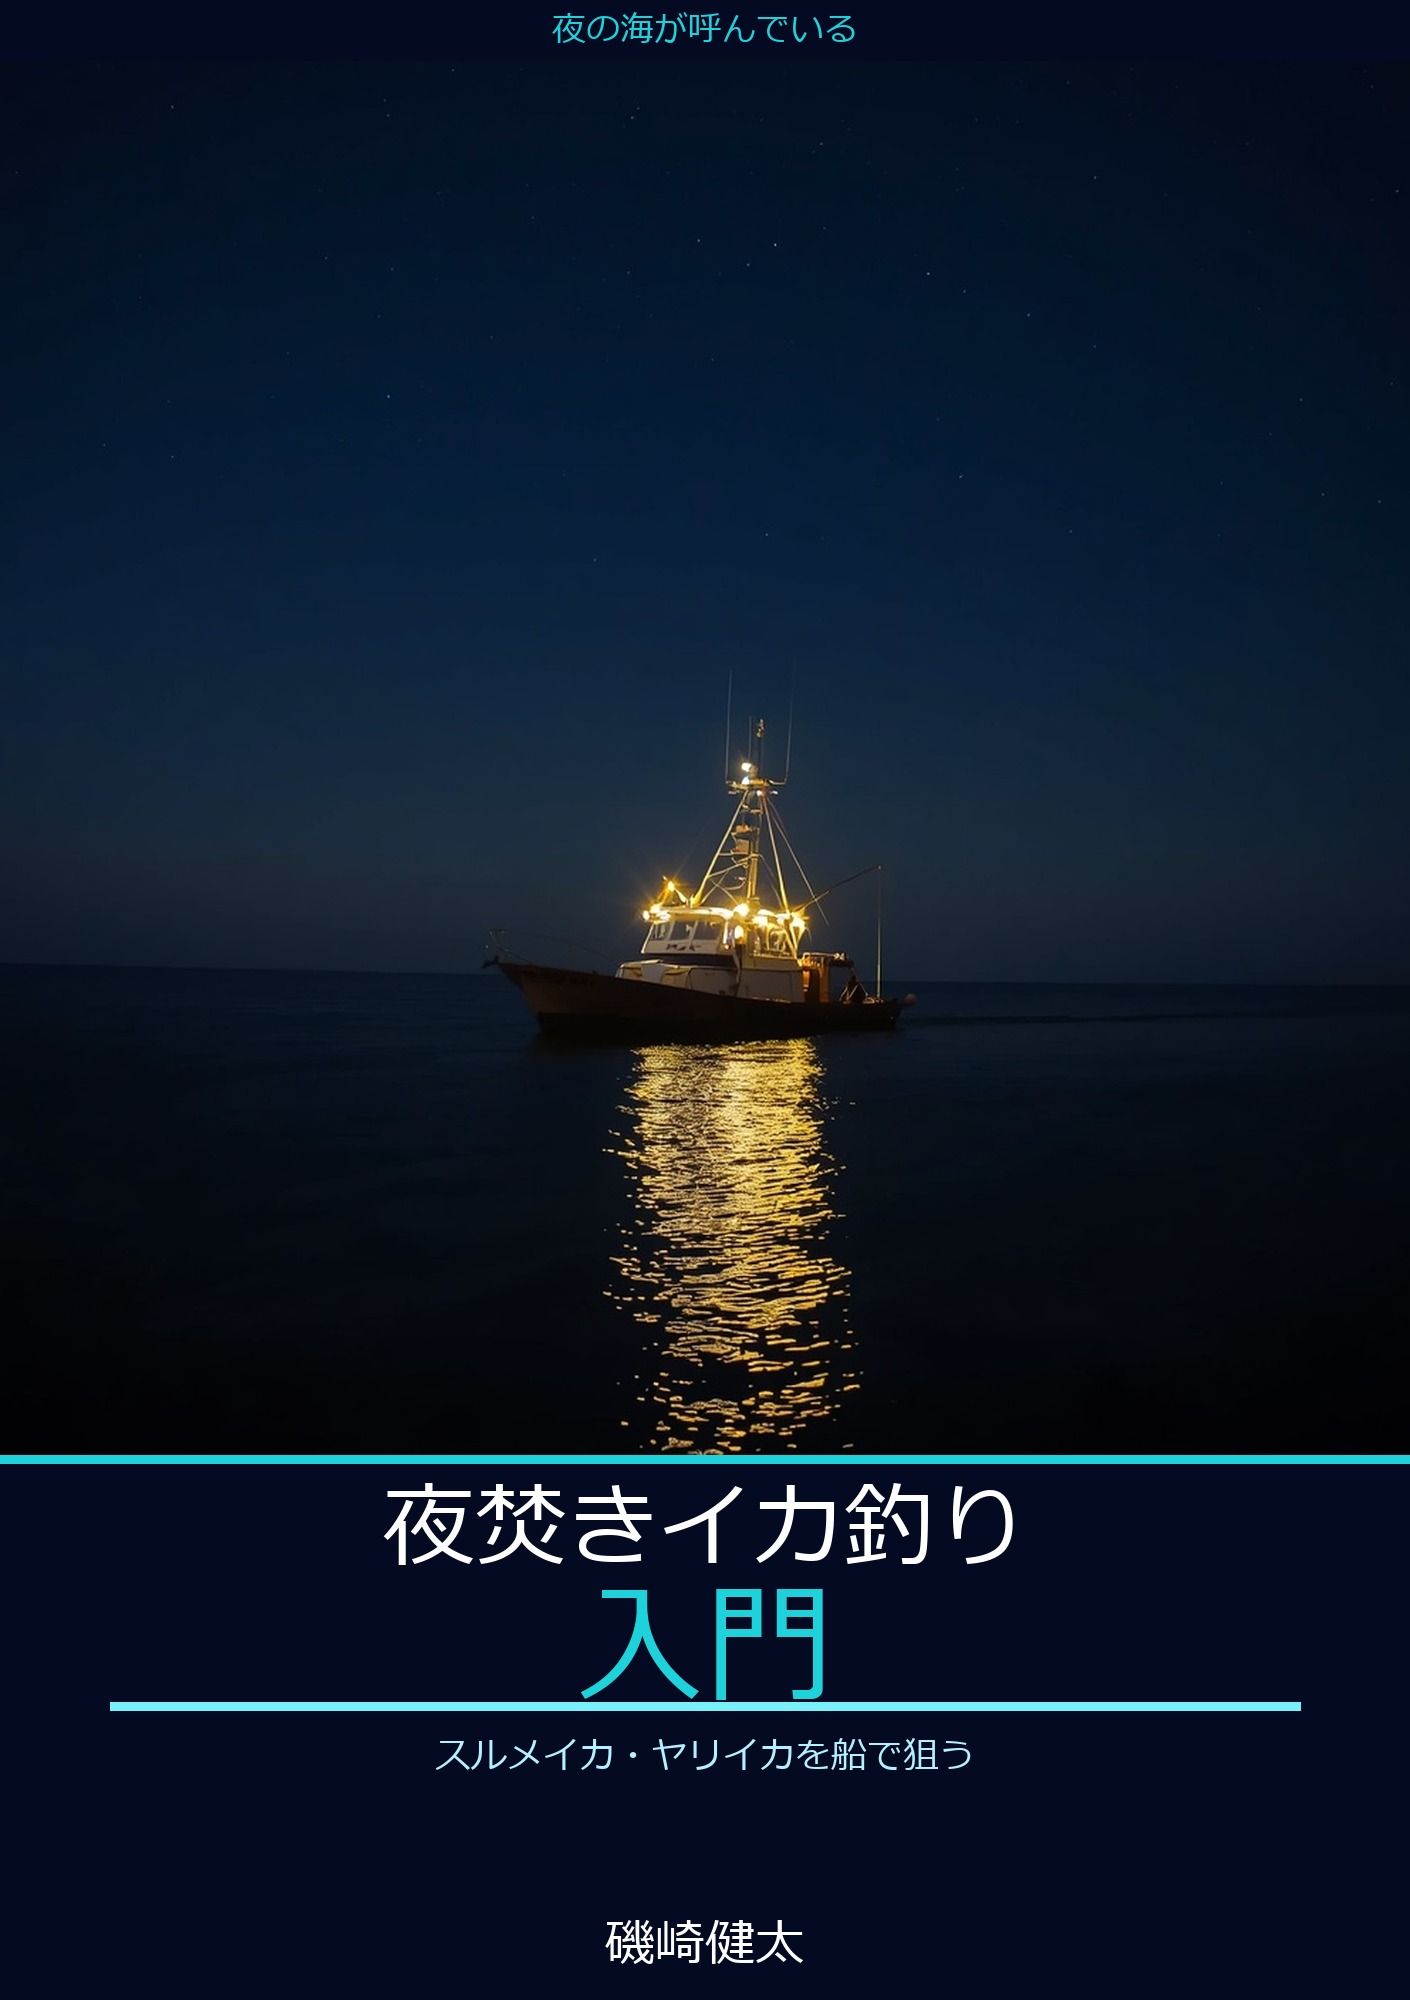
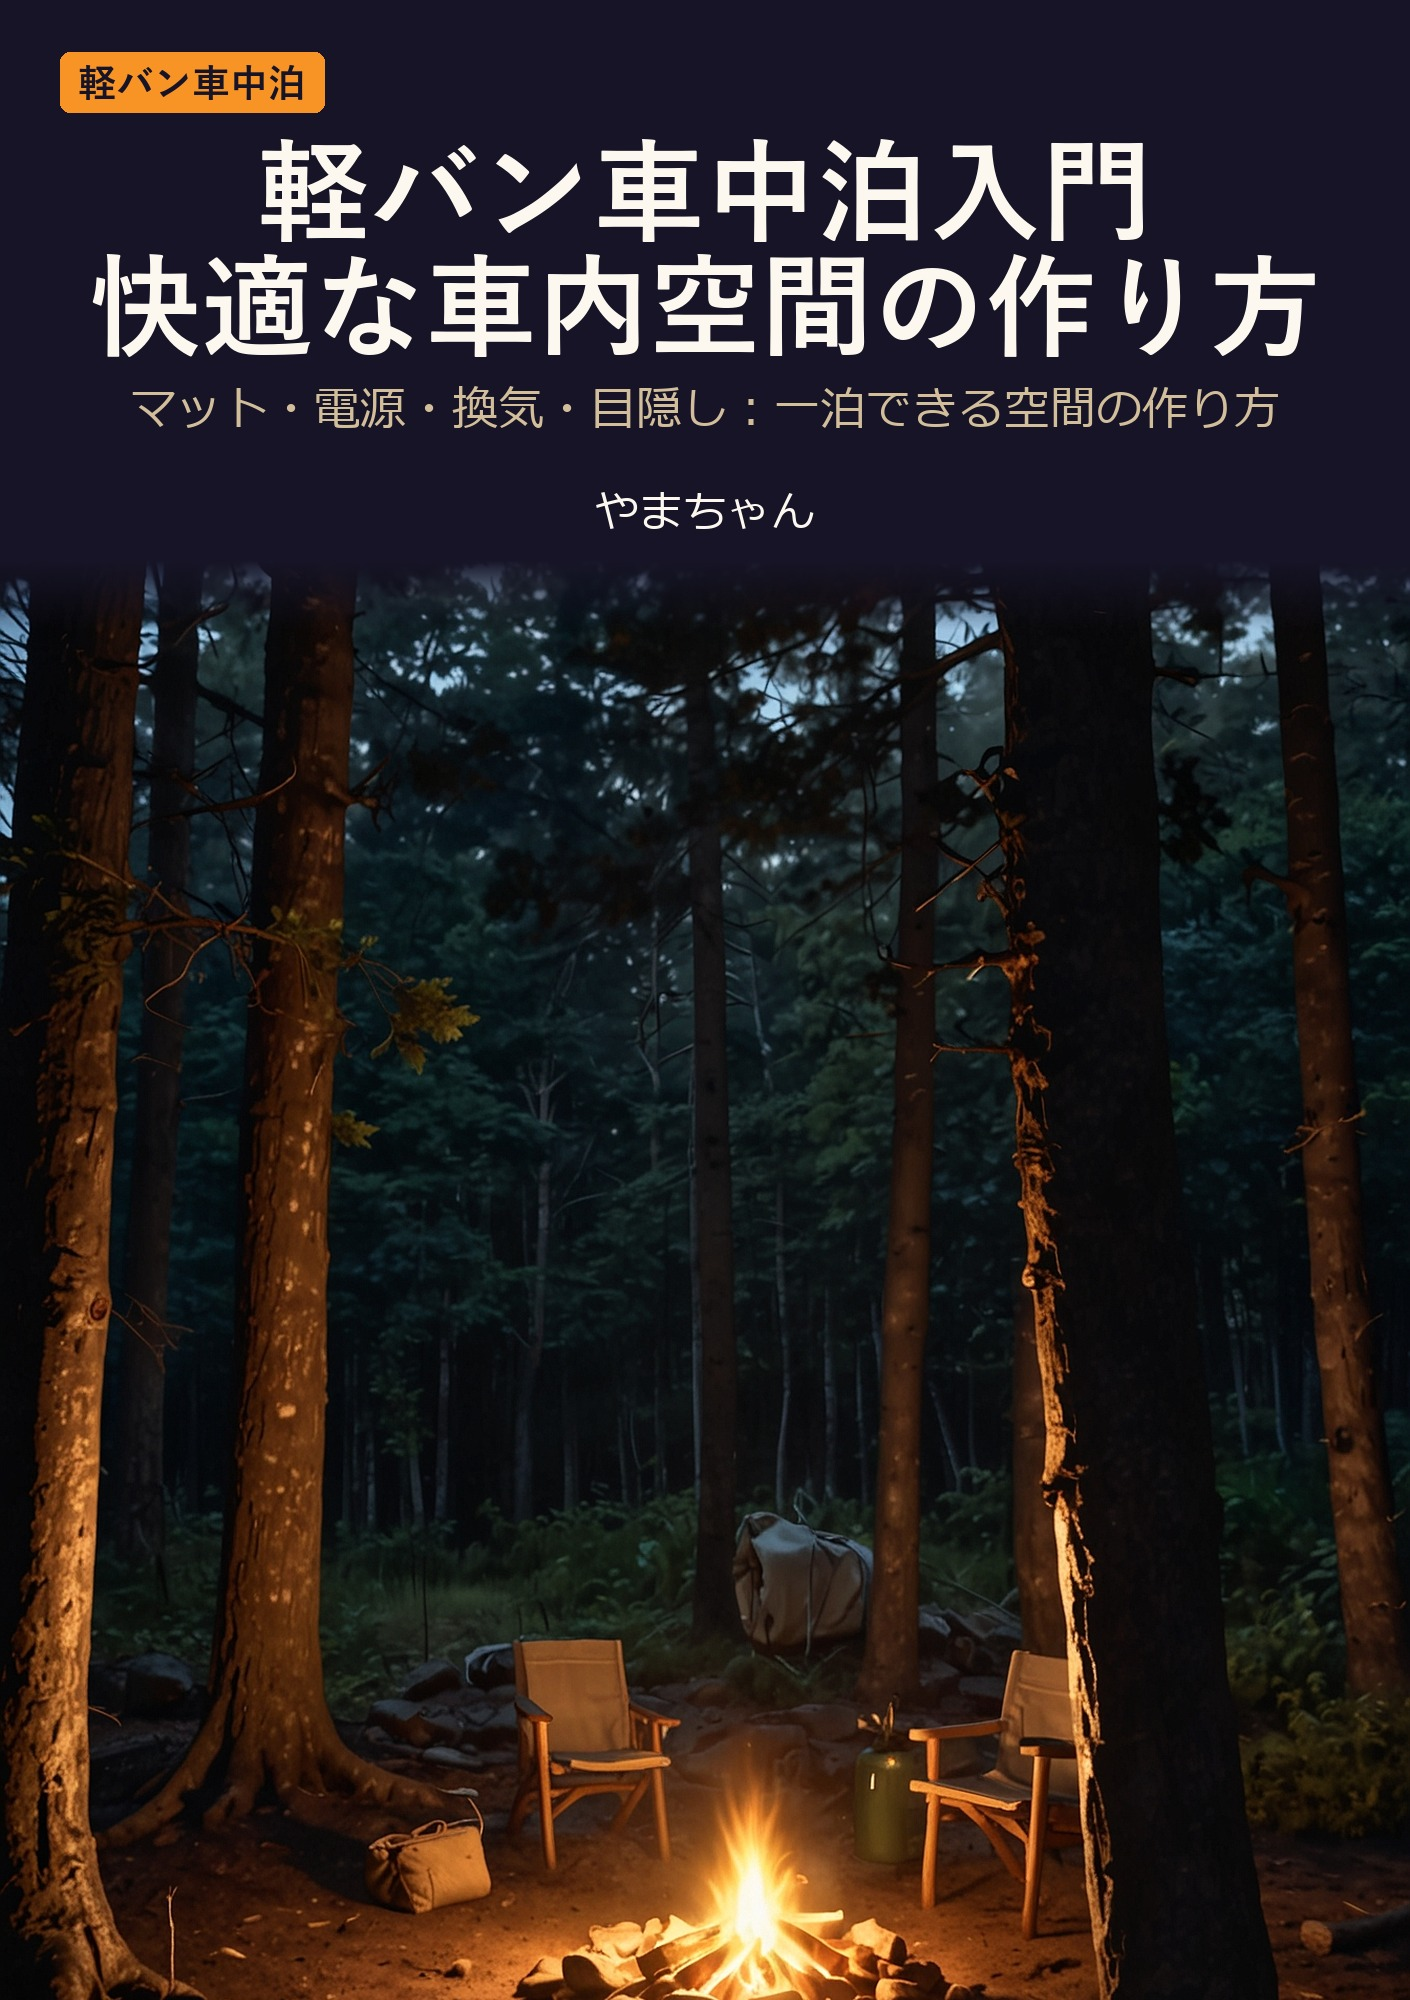
add book48 (軽バン車中泊入門 快適な車内空間の作り方 B0HC2ZFCMC)

diff --git a/src/data/books.ts b/src/data/books.ts
@@ -1687,6 +1687,33 @@ export const books: Book[] = [
     ],
     excerpt: '乗り込んだときの光景を今も鮮明に覚えている。夜明け前の博多港は、漁船のエンジン音と潮の匂いが混じっていた。空はまだ黒と藍の境目で、岸壁の常夜灯だけが白く反射していた。3時間で俺が釣ったのはアジ14匹、イサキ6匹、マダイ1枚、ホウボウ2匹。船長は「今日は普通の日ですよ」と言っていたが、俺には信じられない釣果だった。',
   },
+  {
+    id: 'book48',
+    title: '軽バン車中泊入門 快適な車内空間の作り方',
+    author: 'やまちゃん',
+    genre: 'キャンプ',
+    asin: 'B0HC2ZFCMC',
+    price: 499,
+    cover: '/covers/book48.jpg',
+    description: 'ハイゼットカーゴで車中泊を始めて4年以上のやまちゃんが、荷室のフラット化・マット選び・断熱・電源・収納までを実体験ベースで解説する軽バン車中泊入門の決定版。マットの買い替え失敗談から始まり、冬の底冷え対策やファミリー車中泊の話まで、「やってみて、失敗して、やり直した」記録をまとめた一冊。',
+    tableOfContents: [
+      'まえがき — 「車が部屋になる日」',
+      '第1章 軽バン車中泊の魅力と基本 — 「移動する部屋」という考え方',
+      '第2章 荷室をフラットに — 床作りが快眠の9割を決める',
+      '第3章 シュラフとマット — この2つが全てを決める',
+      '第4章 遮光・換気・プライバシー — 車内空間を「部屋」にする技術',
+      '第5章 電源 — ポータブル電源が車中泊を変えた',
+      '第6章 気温との戦い — 冬の寒さ・夏の暑さを乗り越える',
+      '第7章 収納と整理 — 軽バンの限られたスペースを活かす',
+      '第8章 食事と水 — 車中泊のグルメ事情',
+      '第9章 車中泊の場所 — どこで寝るか',
+      '第10章 初めての車中泊 — 最初の一泊を成功させる準備',
+      '第11章 妻と息子と一緒に — ファミリー車中泊の話',
+      '第12章 長く続けるために — やまちゃん流のメンテナンス観',
+      'おわりに — 「車が部屋になる夜」の先に',
+    ],
+    excerpt: '軽バンで車中泊をするようになったのは、もう4年くらい前のことだ。きっかけは、渓流釣りに行こうとして前の晩に車で仮眠しようとした夜。当時はまだ普通の後部座席に足を引っ込めて、無理やりうずくまって眠ったんだよね。翌朝、腰が痛くて釣りにならなかった。',
+  },
 ]
 
 export const genres: Genre[] = ['釣り', 'キャンプ', '料理', '健康・生活', '犬', '園芸', '小説'];
